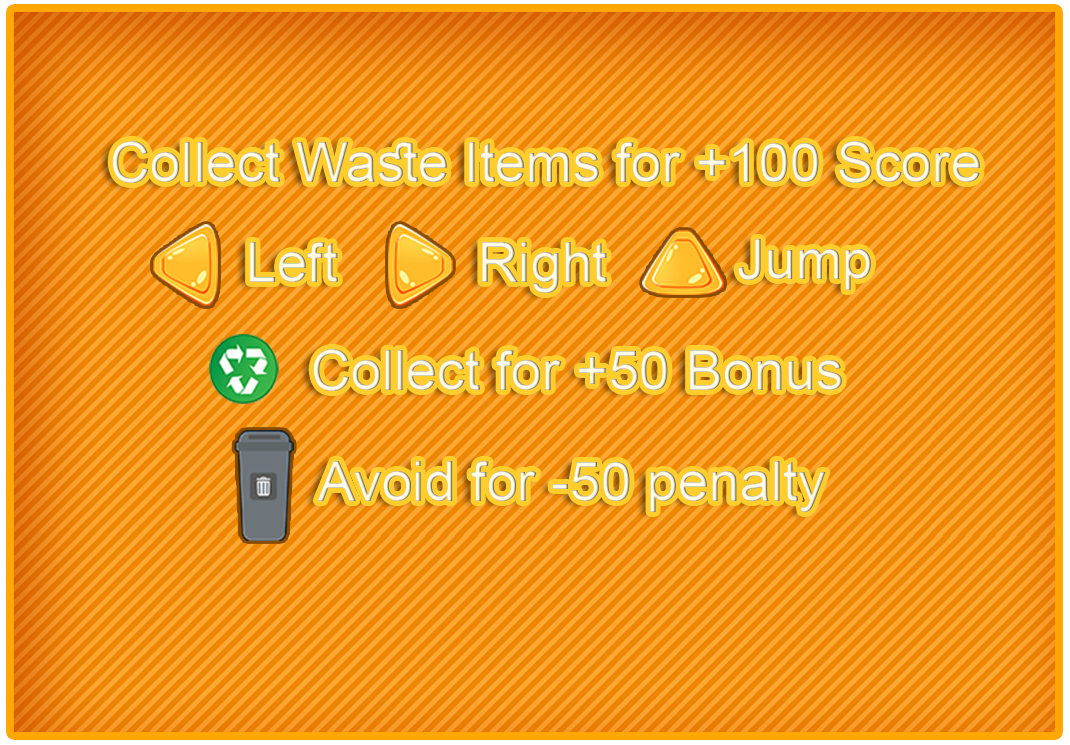
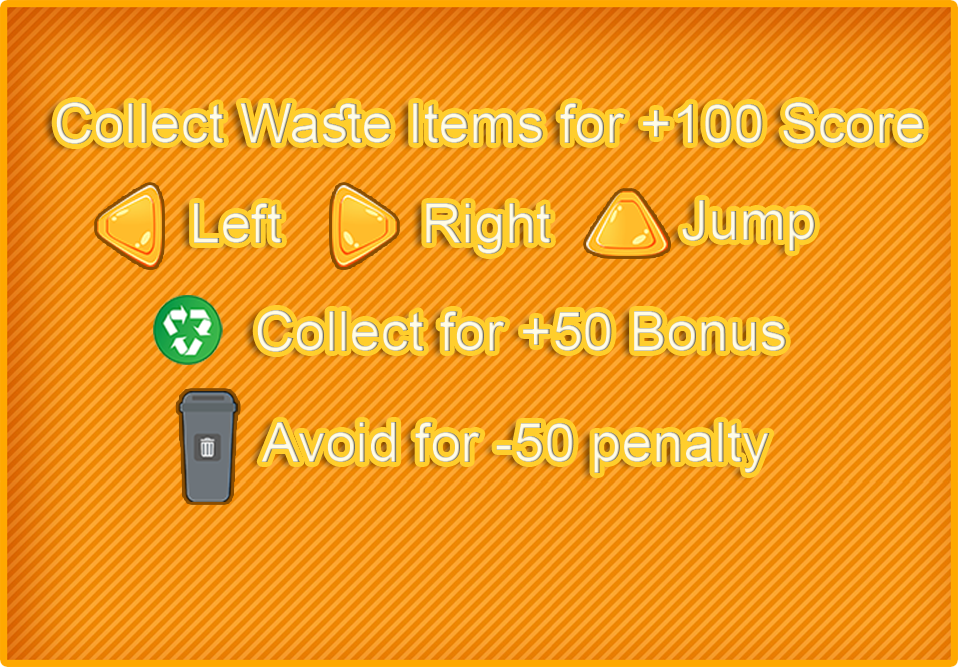
fix position

diff --git a/iteration3/game3/js/Baselevel.js b/iteration3/game3/js/Baselevel.js
@@ -384,7 +384,8 @@ var Baselevel = new Phaser.Class({
     info.setInteractive({ useHandCursor: true }).on(
       'pointerup',
       function () {
-        instructions = this.add.image(1000, 200, 'instructions');
+        instructions = this.add.image(900, 200, 'instructions');
+        instructions.setScale(0.8);
         resume = this.add.image(1000, 650, 'resume');
         this.resumeGame();
       },
